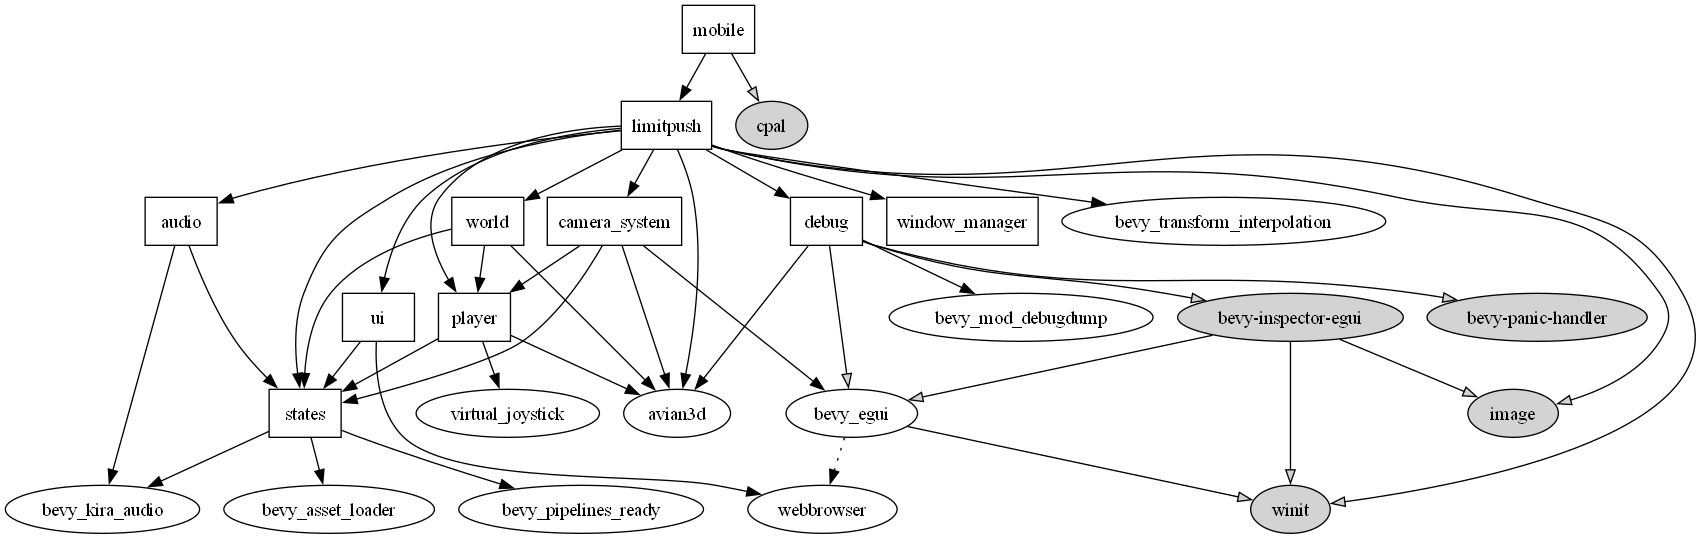
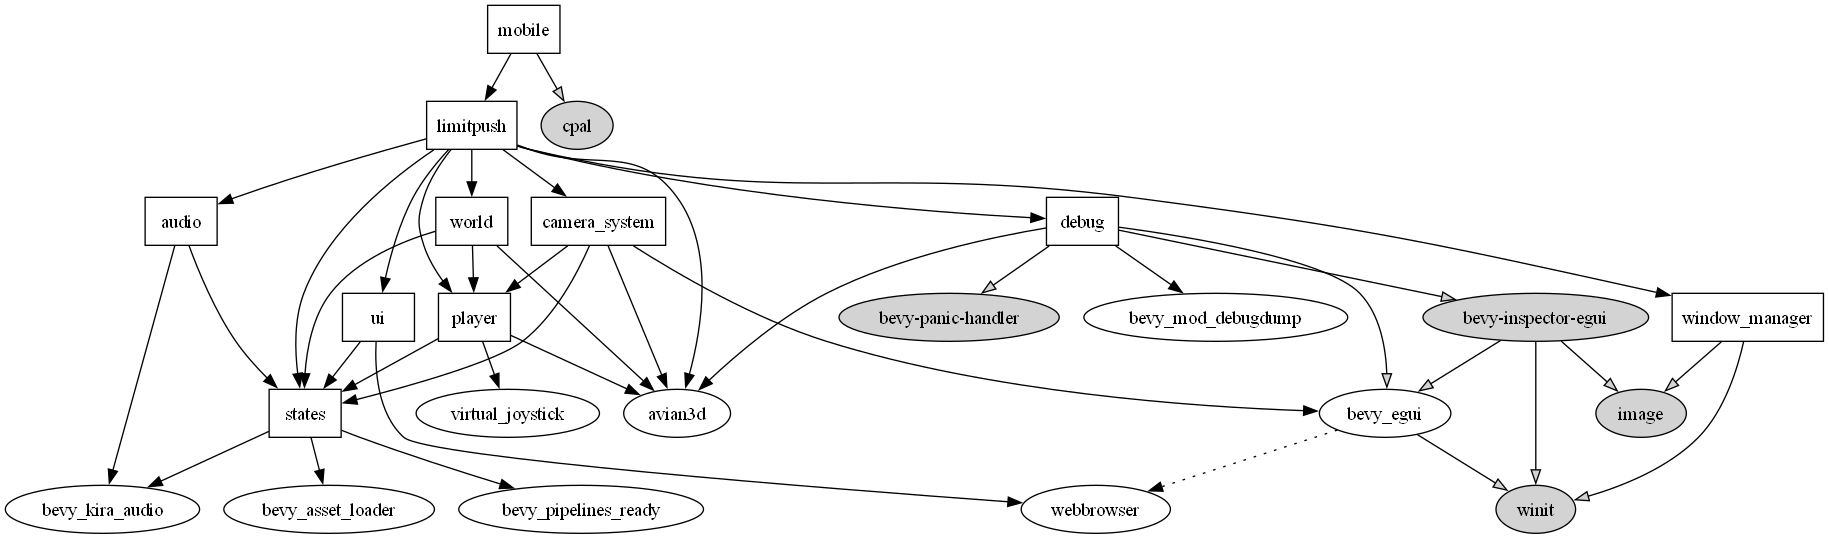
add scripts

diff --git a/src/main.rs b/src/main.rs
@@ -10,12 +10,8 @@ use bevy::prelude::*;
 use bevy::render::settings::{RenderCreation, WgpuFeatures, WgpuSettings};
 use bevy::render::RenderPlugin;
 // Importing common Bevy types and traits for ease of use.
-use bevy::window::PrimaryWindow; // Importing the PrimaryWindow component for window management.
-use bevy::winit::WinitWindows; // Winit is a window management library that Bevy uses for window handling.
 use bevy::DefaultPlugins; // Default plugins provided by Bevy for standard functionalities.
 use limitpush::GamePlugin; // Importing the GamePlugin, which contains core game logic.
-use std::io::Cursor; // Used to create an in-memory cursor for the image data.
-use winit::window::Icon; // Importing the Icon type for window icon management.
 
 fn main() {
     // Create a new Bevy application instance.
@@ -80,39 +76,6 @@ fn main() {
             window_manager::plugin,
             GamePlugin, // Add the GamePlugin, which contains the main game logic.
         ))
-        // Register the system to set the window icon on startup.
-        .add_systems(Startup, set_window_icon)
         // Start the application and begin running the Bevy app loop.
         .run();
-}
-
-// This function sets the window icon for Windows and X11 (Linux).
-// TODO: Investigate potential conflicts with WASM and ensure compatibility with Trunk.
-// It's important to determine if Trunk is using this main.rs file for WASM builds.
-fn set_window_icon(
-    windows: NonSend<WinitWindows>, // NonSend allows this resource to be used without sending it between threads.
-    primary_window: Query<Entity, With<PrimaryWindow>>, // Query to get the entity representing the primary window.
-) {
-    // Get the single primary window entity from the query.
-    let primary_entity = primary_window.single();
-    // Attempt to retrieve the window associated with the primary entity.
-    let Some(primary) = windows.get_window(primary_entity) else {
-        return; // If the window is not found, exit the function early.
-    };
-
-    // Load the window icon image from the specified path in the project.
-    let icon_buf = Cursor::new(include_bytes!(
-        "../build/macos/AppIcon.iconset/icon_256x256.png" // The icon image included in the binary.
-    ));
-
-    // Try to load the image in PNG format.
-    if let Ok(image) = image::load(icon_buf, image::ImageFormat::Png) {
-        let image = image.into_rgba8(); // Convert the image to RGBA format (8 bits per channel).
-        let (width, height) = image.dimensions(); // Get the image dimensions.
-        let rgba = image.into_raw(); // Convert the image into a raw RGBA byte array.
-        let icon = Icon::from_rgba(rgba, width, height).unwrap(); // Create an Icon from the RGBA data.
-
-        // Set the window icon using the created Icon instance.
-        primary.set_window_icon(Some(icon));
-    }
 }

diff --git a/crates/window_manager/src/lib.rs b/crates/window_manager/src/lib.rs
@@ -3,7 +3,42 @@
 pub mod window;
 
 use bevy::prelude::*;
+use std::io::Cursor; // Used to create an in-memory cursor for the image data.
+use winit::window::Icon; // Importing the Icon type for window icon management.
+use bevy::window::PrimaryWindow; // Importing the PrimaryWindow component for window management.
+use bevy::winit::WinitWindows; // Winit is a window management library that Bevy uses for window handling.
 
 pub fn plugin(app: &mut App) {
     app.add_plugins(window::plugin);
+    // Register the system to set the window icon on startup.
+    app.add_systems(Startup, set_window_icon);
+}
+
+// This function sets the window icon for Windows and X11 (Linux).
+fn set_window_icon(
+    windows: NonSend<WinitWindows>, // NonSend allows this resource to be used without sending it between threads.
+    primary_window: Query<Entity, With<PrimaryWindow>>, // Query to get the entity representing the primary window.
+) {
+    // Get the single primary window entity from the query.
+    let primary_entity = primary_window.single();
+    // Attempt to retrieve the window associated with the primary entity.
+    let Some(primary) = windows.get_window(primary_entity) else {
+        return; // If the window is not found, exit the function early.
+    };
+
+    // Load the window icon image from the specified path in the project.
+    let icon_buf = Cursor::new(include_bytes!(
+        "../../../build/macos/AppIcon.iconset/icon_256x256.png" // The icon image included in the binary.
+    ));
+
+    // Try to load the image in PNG format.
+    if let Ok(image) = image::load(icon_buf, image::ImageFormat::Png) {
+        let image = image.into_rgba8(); // Convert the image to RGBA format (8 bits per channel).
+        let (width, height) = image.dimensions(); // Get the image dimensions.
+        let rgba = image.into_raw(); // Convert the image into a raw RGBA byte array.
+        let icon = Icon::from_rgba(rgba, width, height).unwrap(); // Create an Icon from the RGBA data.
+
+        // Set the window icon using the created Icon instance.
+        primary.set_window_icon(Some(icon));
+    }
 }

diff --git a/src/lib.rs b/src/lib.rs
@@ -21,7 +21,6 @@ use avian3d::PhysicsPlugins;
 ///
 /// All code in **lib.rs** is shared across all platforms.
 use bevy::prelude::*;
-use bevy_transform_interpolation::TransformInterpolationPlugin; // Common Bevy imports for ease of development. // Debugging tools.
 
 /// Core game plugin for Bevy.
 /// This manages all game-related features and systems by bundling them into the Bevy app.
@@ -43,11 +42,6 @@ impl Plugin for GamePlugin {
             // This plugin isn't available at release to offer
             // cleaner game experience
             debug::plugin,
-            TransformInterpolationPlugin {
-                global_translation_interpolation: true,
-                global_rotation_interpolation: true,
-                global_scale_interpolation: true,
-            },
         ));
     }
 }

diff --git a/depgraph/README.md b/depgraph/README.md
@@ -1,0 +1,30 @@
+# depgraph
+
+This directory provides a **clear dependency graph** to visualize project structure and its dependencies.
+
+## Updating the Dependency Graph
+
+To update the dependency graph and refresh dependencies, run the `update_workspace` script.
+
+### Installation and Setup
+
+Ensure that **Graphviz** is installed on your system, as the scripts require `dot`, a Graphviz utility. You can download Graphviz [here](https://graphviz.org).
+
+### Windows
+
+1. Install Graphviz.
+2. Edit the `update_workspace.bat` file to provide the correct path to `dot.exe`.
+3. Run the script:
+   ```powershell
+   .\scripts\update_workspace.bat
+   ```
+
+### MacOS / Linux
+
+1. Install Graphviz.
+2. Update the `update_workspace.sh` script to ensure the correct path to `dot` is set.
+3. Run the following commands to make the script executable and then run it:
+   ```bash
+   chmod +x ./scripts/update_workspace.sh
+   ./scripts/update_workspace.sh
+   ```
